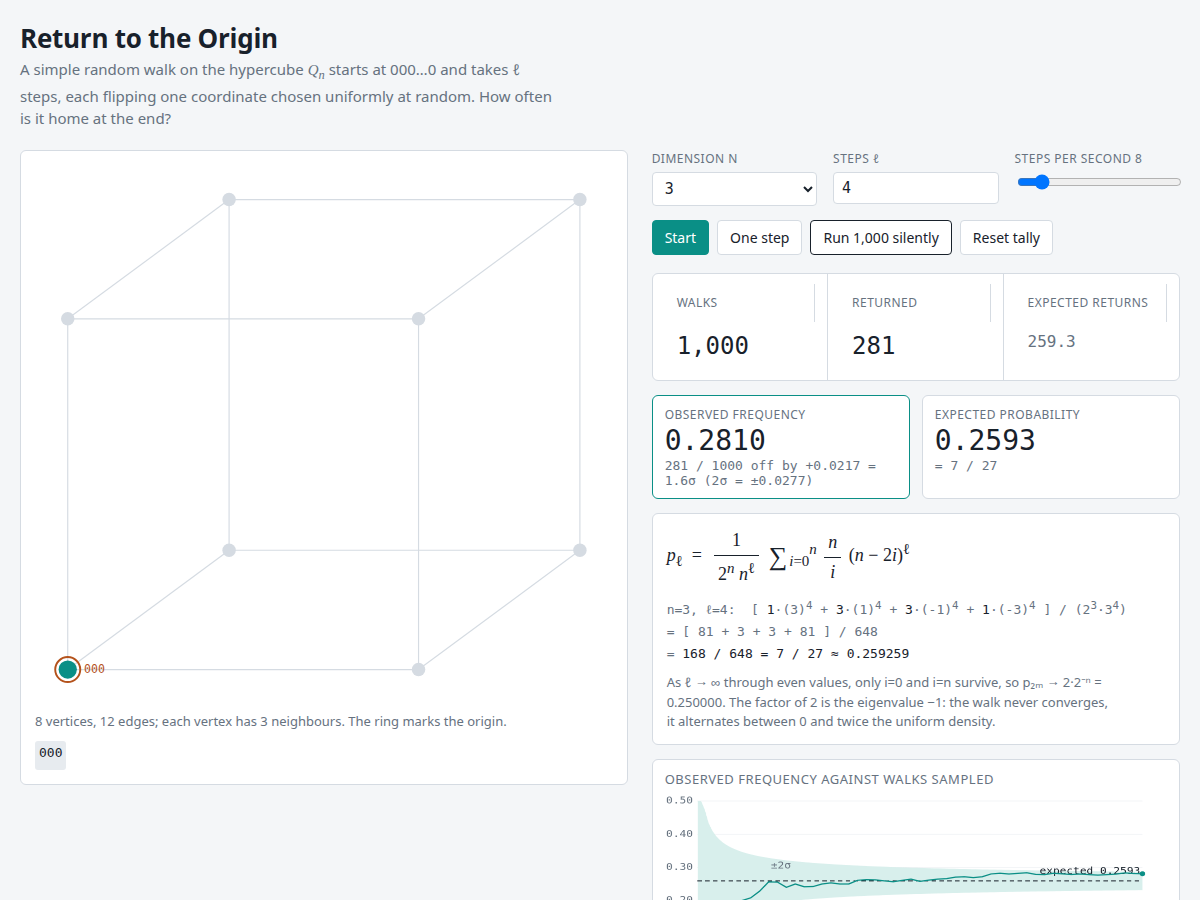
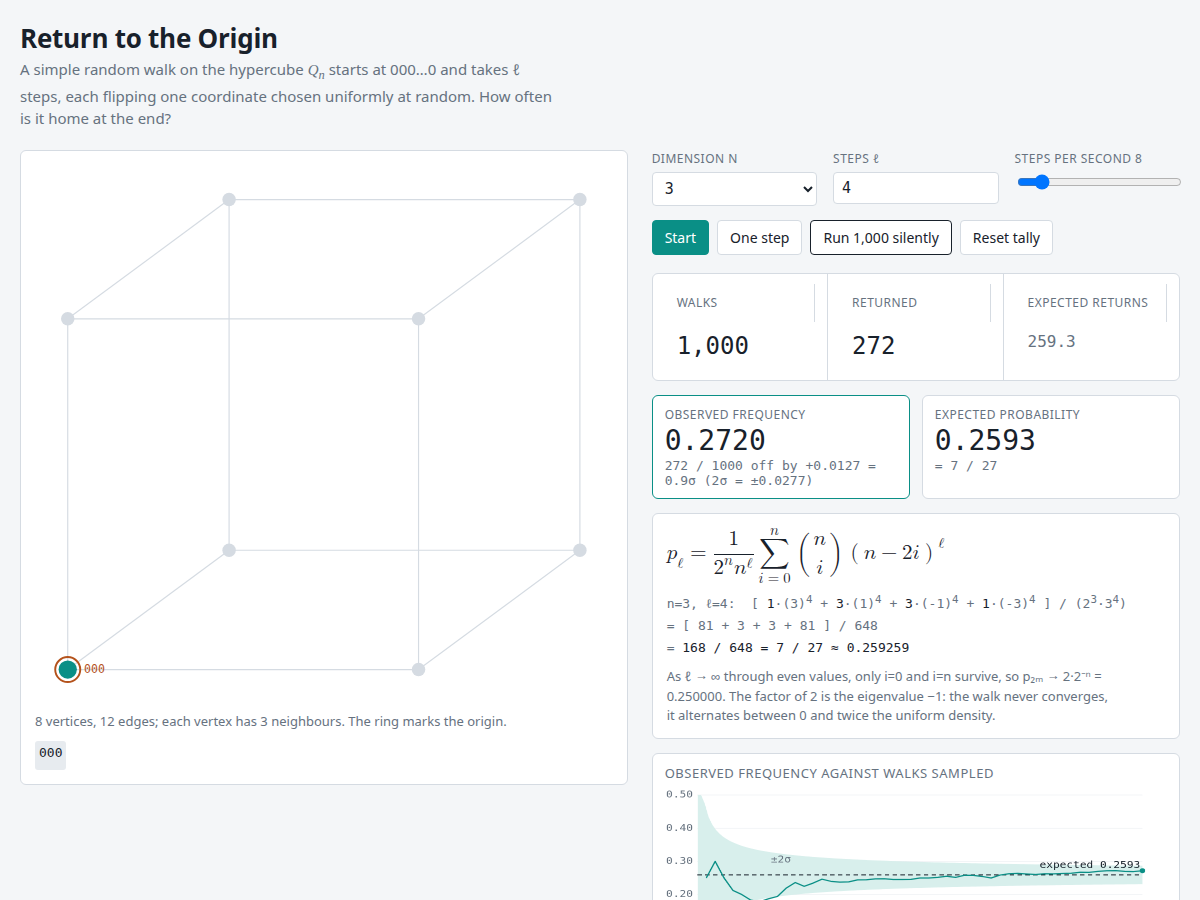
viz: Return to the Origin (random walks on the hypercube); link from 372

diff --git a/public/hypercube-walk/index.html b/public/hypercube-walk/index.html
@@ -61,12 +61,7 @@ button:focus-visible,select:focus-visible,input:focus-visible{outline:2px solid 
 .compare .v{font:500 28px/1.2 var(--mono);font-variant-numeric:tabular-nums}
 .compare .d{font:13px var(--mono);color:var(--muted)}
 .formula{background:var(--panel);border:1px solid var(--rule);border-radius:6px;padding:12px 14px;margin-bottom:14px;overflow-x:auto}
-.formula .m{font:18px/1.6 var(--serif)}
-.formula .m i{font-style:italic}
-.formula .frac{display:inline-block;vertical-align:middle;text-align:center;margin:0 3px}
-.formula .frac span{display:block;padding:0 4px}
-.formula .frac span:first-child{border-bottom:1px solid var(--ink)}
-.formula .big{font-size:26px;vertical-align:-4px;margin:0 2px}
+.formula math.m{display:block;font-family:"STIX Two Math","STIX Two Text","Latin Modern Math","Cambria Math","Times New Roman",serif;font-size:21px;margin:2px 0 6px;color:var(--ink)}
 .terms{font:13px/1.7 var(--mono);margin-top:8px;color:var(--muted);white-space:nowrap}
 .terms b{color:var(--ink);font-weight:500}
 .terms .ans{color:var(--ink)}
@@ -120,13 +115,16 @@ button:focus-visible,select:focus-visible,input:focus-visible{outline:2px solid 
       </div>
 
       <div class="formula">
-        <div class="m">
-          <i>p</i><sub>ℓ</sub> &nbsp;=&nbsp;
-          <span class="frac"><span>1</span><span>2<sup><i>n</i></sup> <i>n</i><sup>ℓ</sup></span></span>
-          <span class="big">∑</span><sub><i>i</i>=0</sub><sup><i>n</i></sup>
-          <span class="frac"><span><i>n</i></span><span><i>i</i></span></span>
-          (<i>n</i> − 2<i>i</i>)<sup>ℓ</sup>
-        </div>
+        <math display="block" class="m">
+          <mrow>
+            <msub><mi>p</mi><mi>ℓ</mi></msub>
+            <mo>=</mo>
+            <mfrac><mn>1</mn><mrow><msup><mn>2</mn><mi>n</mi></msup><mo></mo><msup><mi>n</mi><mi>ℓ</mi></msup></mrow></mfrac>
+            <munderover><mo>∑</mo><mrow><mi>i</mi><mo>=</mo><mn>0</mn></mrow><mi>n</mi></munderover>
+            <mrow><mo>(</mo><mfrac linethickness="0"><mi>n</mi><mi>i</mi></mfrac><mo>)</mo></mrow>
+            <msup><mrow><mo>(</mo><mi>n</mi><mo>−</mo><mn>2</mn><mo></mo><mi>i</mi><mo>)</mo></mrow><mi>ℓ</mi></msup>
+          </mrow>
+        </math>
         <div class="terms" id="terms"></div>
         <p class="note" id="fnote"></p>
       </div>
